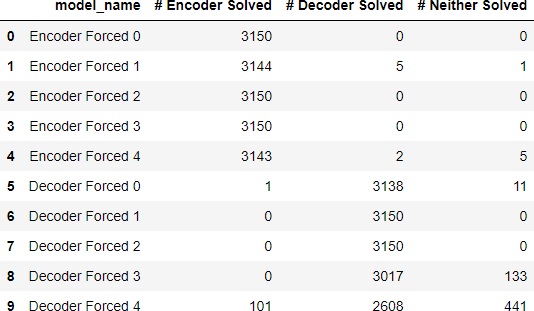
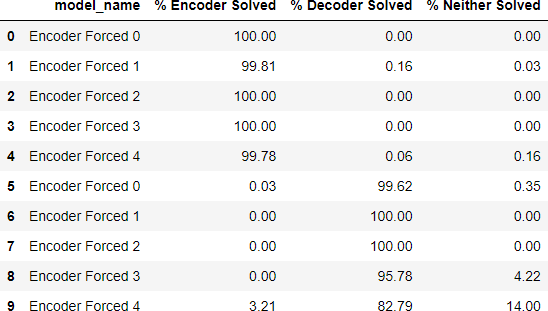
Updated today's experiment to use %s
Switched to % rather than counts to make the graphs easier to interpret.

diff --git a/Encoder_Decoder.py b/Encoder_Decoder.py
@@ -681,14 +681,14 @@ import dataframe_image as dfi
 data = []
 for i in range(5):
     results = torch.load(f=f'./Experiments/Results/071223/{i}_encoder_results.pth')
-    data.append([f"Encoder Forced {i}", len(results["encoder"]), len(results["decoder"]), len(results["neither"])])
+    data.append([f"Encoder Forced {i}", f"{(len(results['encoder'])/31.5):.2f}", f"{(len(results['decoder'])/31.5):.2f}", f"{(len(results['neither'])/31.5):.2f}"])
 for i in range(5):
     results = torch.load(f=f'./Experiments/Results/071223/{i}_decoder_results.pth')
-    data.append([f"Decoder Forced {i}", len(results["encoder"]), len(results["decoder"]), len(results["neither"])])
+    data.append([f"Encoder Forced {i}", f"{(len(results['encoder'])/31.5):.2f}", f"{(len(results['decoder'])/31.5):.2f}", f"{(len(results['neither'])/31.5):.2f}"])
 
-col_names = ["model_name", "# Encoder Solved", "# Decoder Solved", "# Neither Solved"]
+col_names = ["model_name", "% Encoder Solved", "% Decoder Solved", "% Neither Solved"]
 df = pd.DataFrame(data=data, columns=col_names)
-dfi.export(df, 'dataframe.png')
+dfi.export(df, './Figures/Experiment_Results_071223_composite_table.png')
 
 # %%
 results = torch.load(f=f'./Experiments/070323_resultsmodel0.pth')
@@ -731,10 +731,6 @@ plt.show()
 # %%
 # TODO:
 
-# Run the encoder/decoder forced 5 times each. Freeze all but the transformer encoder/decoder
-
-
-
 # Run the fmale name tests for the male arithmetics, see if they distributions are similar
 
 # Run GRU decoder only, see if it generalized (compare to transformer decoder only)
@@ -742,21 +738,9 @@ plt.show()
 
 # Train a transformer on limitted training set, and 
 # See if the encoder/decoder is getting the credit on test examples
-# See what of name1,name2,name3,verb1,verb2 has the biggest effect on errors in transformer arithmetic also biggest effect on encoder/decoder. USE DECISION TREE
-# CAREFUL- There are two reflexive sentences at play
-# Rerun generalization experiments with positional encoding
 
-# Try training a decoder/encoder WITHOUT HIM/HERSELF. Then add in the him/herself examples, but only train the encoder/decoder, keeping the alternate part the same/fixed parameters
-
-# Implement decoder only
-
-
-# Increase the number of excluded female names
 # Compare cosine similarities of himself/herself encoder embeddings
-# Experiment with hidden dimension size
-# Including male names/not in training
-# Implement encoder/decoder transformer, run same code
-# Implement decoder only transformer
+
 # Try GPT2
 # %%
 

diff --git a/Experiments/Experiments071223.md b/Experiments/Experiments071223.md
@@ -11,7 +11,7 @@ This was accomplished in 4 steps:
 
 4. We now have 5 models which we know use the encoder to solve reflexive cases, and 5 models which we know use the decoder to solve reflexive cases. Hence, we can test whether our transformer-arithmetic approach proposed in Experiments071223.md were actually valid. To do this, we ran (almost) the same experiments as in Experiments071223.md on these new models. The one change which we made was that we only looked at training examples where (to use notation from that experiment) verb1=verb2="eats", because we found in Experiments071223.md that verb1 and verb2 seemed to have essentially no affect on how the model classified the examples.
 
-Below are the results:
+Below are the results (NOTE: percents are based off of 3150 example analogies. This is 15\*\*3 combinations for name1,name2,name3 minus 15\*\*2 combinations of nam1,name2,name3 when name1==name3):
 <p align="center">
     <img src="https://github.com/luk27182/Reflexive-Anaphora/blob/main/Figures/Experiment_Results_071223_composite_table.png">
 </p>
